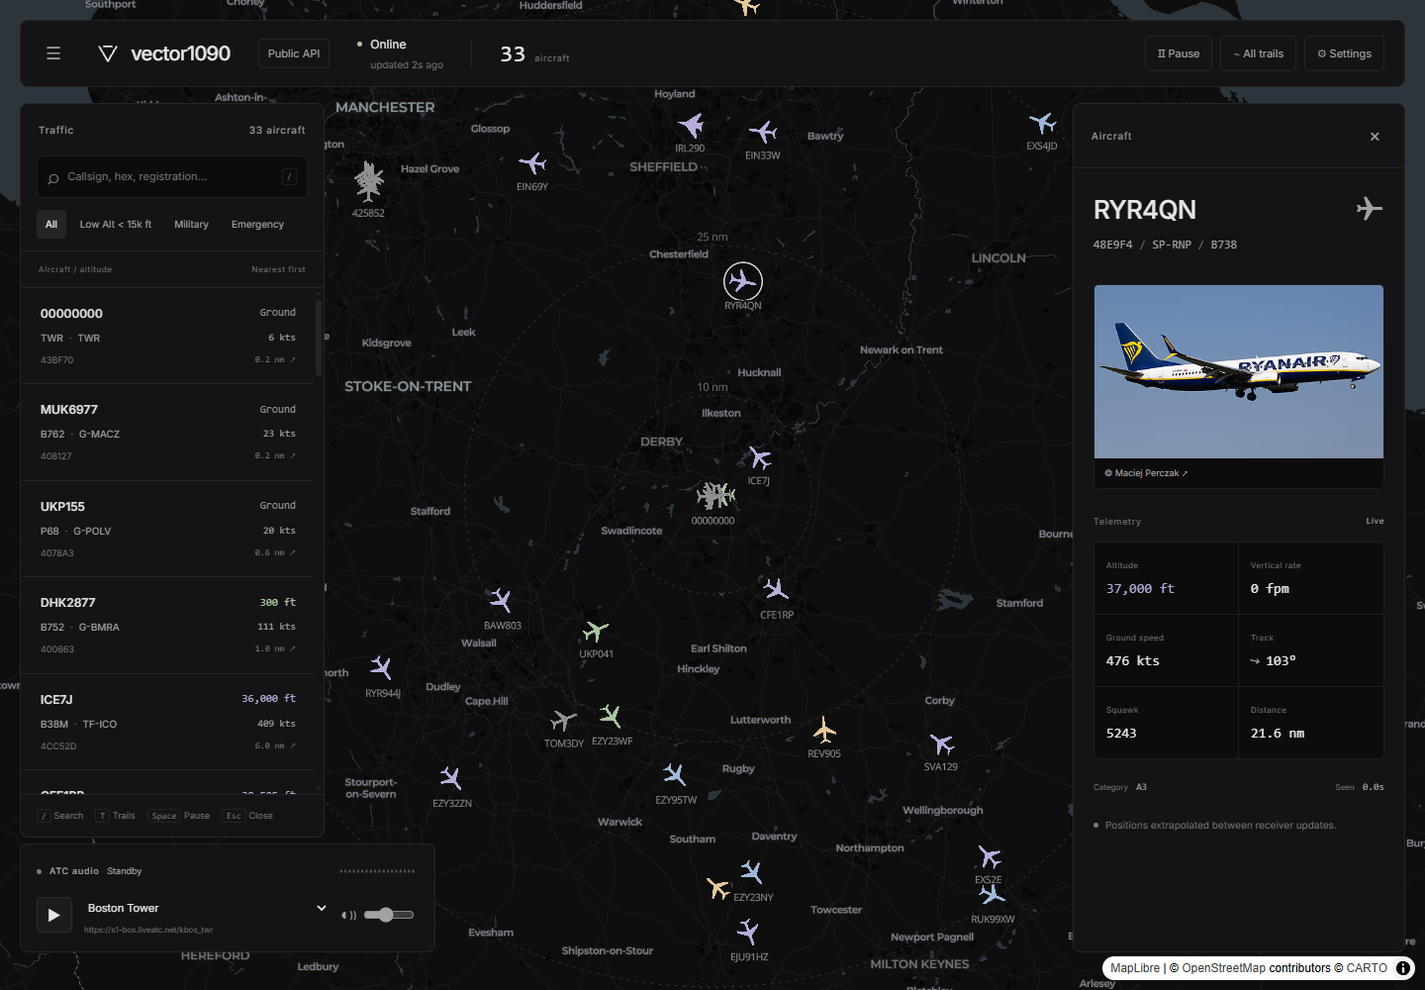
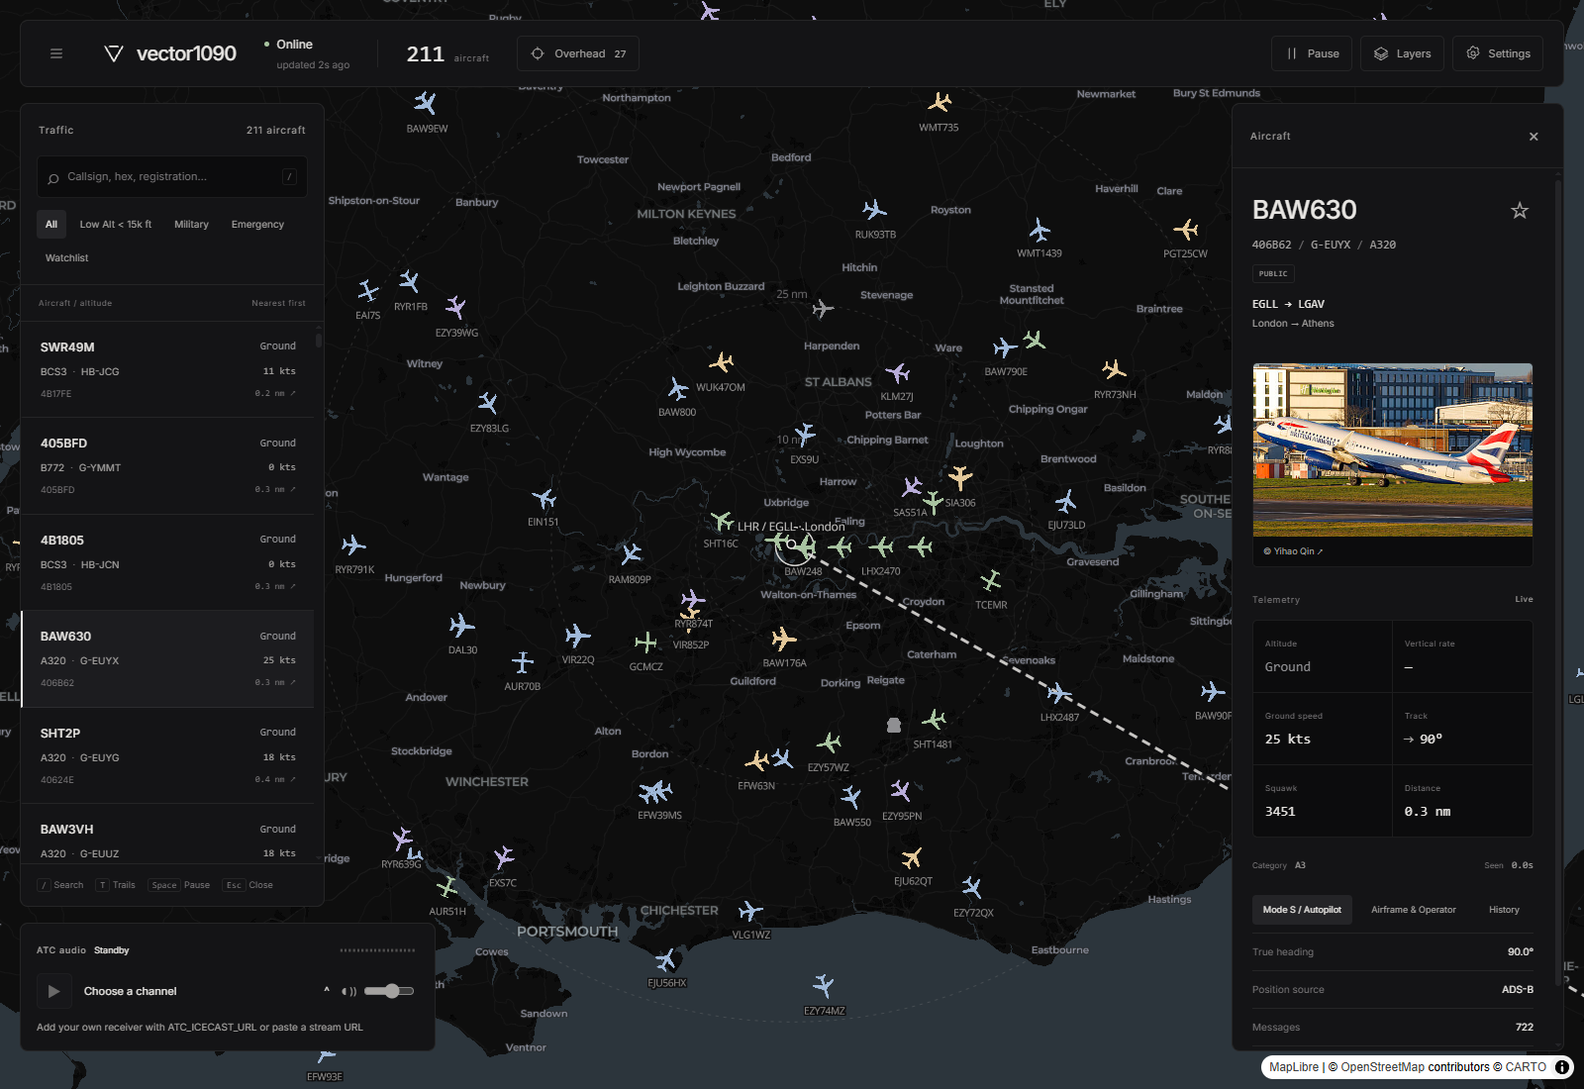
docs: self-hosting guide and v1.2.0

diff --git a/src/lib/atcServer.ts b/src/lib/atcServer.ts
@@ -22,7 +22,7 @@ const state: State = (globals[key] ??= {
 const { cache, pending } = state;
 const ibonavBase = "https://atc1.ibosoft.net.tr:2096";
 const agent = "vector1090/1.2 (+https://github.com/Reforge-OSS/vector1090)";
-export function atcRetryAfter(value: string | null): number {
+function atcRetryAfter(value: string | null): number {
   const seconds =
     value && /^\d+(\.\d+)?$/.test(value)
       ? Number(value)

diff --git a/src/lib/mapGeometry.ts b/src/lib/mapGeometry.ts
@@ -40,7 +40,7 @@ const validCoordinates = (point: Coordinates) =>
   Math.abs(point.lat) <= 90 &&
   Number.isFinite(point.lon) &&
   Math.abs(point.lon) <= 180;
-export const wrapLongitude = (lon: number) =>
+const wrapLongitude = (lon: number) =>
   ((((lon + 180) % 360) + 360) % 360) - 180;
 export function unwrapLine(points: Position[]): Position[] {
   const result: Position[] = [];

diff --git a/src/lib/atc.ts b/src/lib/atc.ts
@@ -1,5 +1,5 @@
 import { distanceNm } from "./geo";
-export type AtcProvider = "icecast" | "ibonav" | "custom";
+type AtcProvider = "icecast" | "ibonav" | "custom";
 export interface AtcChannel {
   id: string;
   provider: AtcProvider;

diff --git a/src/hooks/useAircraftFeed.ts b/src/hooks/useAircraftFeed.ts
@@ -10,7 +10,7 @@ import type {
   Settings,
 } from "@/lib/types";
 
-export interface TrailPoint {
+interface TrailPoint {
   lon: number;
   lat: number;
   alt: Aircraft["alt_baro"];

diff --git a/README.md b/README.md
@@ -1,161 +1,246 @@
 # vector1090
 
-An ADS-B aircraft map with ATC audio, for public feeds or a local receiver.
+A dark-mode ADS-B radar and ATC audio dashboard. Version 1.2 combines public
+coverage with a local receiver, without needing browser access to either upstream.
 
-![Dashboard](docs/overview.png)
+![Radar overview](docs/overview.png)
 
 ## Features
 
-- Public adsb.lol feeds or readsb/tar1090 aircraft.json, with pause, rate-limit guards and retry backoff.
-- MapLibre map with category silhouettes, altitude colors, range rings, trails and interpolated positions between updates.
-- Search and filters, distance-sorted aircraft list, telemetry and credited Planespotters photos.
-- ATC audio from a user-supplied URL, with example streams whose availability varies.
-- Monochrome panels, pastel data colors, persistent settings and inertial scrolling that respects reduced motion.
+- Public adsb.lol, local readsb/tar1090, or Hybrid feeds. Local telemetry wins
+  when both sources see an aircraft; either source can continue if the other fails.
+- Debounced viewport tracking, shared server caches, request coalescing and 429
+  cooldowns. Below zoom 5, global scope shows military and squawk 7700 traffic,
+  **not every aircraft worldwide**.
+- Search, filters, persistent watchlist and overhead aircraft picker.
+- Intelligence drawer: credited photo carousel, airframe/operator information,
+  extended telemetry and session altitude/speed history.
+- Great-circle routes, altitude-colored selected trails, category silhouettes,
+  interpolated positions and shareable camera/selection/filter URLs.
+- Persistent layers: range rings, trails, day/night shading, RainViewer radar and
+  a home-keyed receiver range plot with reset.
+- Dismissible 7500/7600/7700 alerts.
+- Icecast, authorized ibonav.aero and saved custom ATC streams, with airport-aware
+  failover, bounded retries, volume and visualizer. No autoplay.
+- Monochrome panels, pastel data colors and inertial scrolling with reduced-motion support.
 
-![Aircraft details and photo](docs/aircraft.png)
+![Aircraft drawer with route and credited photo](docs/aircraft.png)
 
 Altitude colors: ground/unknown grey; below 5,000 ft sage; 5,000–9,999 ft sand;
-10,000–24,999 ft blue; 25,000 ft and above lavender. Emergency squawks use rose.
+10,000–24,999 ft blue; 25,000 ft and above lavender. Emergency traffic uses muted rose.
 
-## Run with Docker
+## Quickstart
+
+With Docker and Compose:
 
 ```sh
-docker compose up -d
+git clone https://github.com/Reforge-OSS/vector1090.git
+cd vector1090
+cp .env.example .env
+docker compose up -d --build
 ```
 
-Open http://localhost:3000. The image uses Node 22 Alpine and runs as a non-root user.
+Open http://localhost:3000. Public mode needs no receiver or API key.
+The image uses Node 22 Alpine, standalone output and a non-root user.
+Credentials are supplied at runtime, not bundled into the image.
 
-## Development
-
-Use Node.js 22 (Node 20 or newer is required).
+For development, use Node.js 22 (minimum 20):
 
 ```sh
-npm install
+npm ci
 npm run dev
 ```
 
-| Command                | Purpose                                               |
-| ---------------------- | ----------------------------------------------------- |
-| `npm run dev`          | Development server                                    |
-| `npm run build`        | Standalone production build                           |
-| `npm run lint`         | Next.js ESLint checks                                 |
-| `npm run typecheck`    | TypeScript checks                                     |
-| `npm run format`       | Format source, config and documentation with Prettier |
-| `npm run format:check` | Check formatting without writing                      |
-| `npm test`             | Run offline Vitest tests                              |
+| Command                                   | Purpose                           |
+| ----------------------------------------- | --------------------------------- |
+| `npm run dev`                             | Development server                |
+| `npm run build`                           | Standalone production build       |
+| `npm run lint` / `npm run typecheck`      | ESLint / TypeScript               |
+| `npm run format` / `npm run format:check` | Write / check Prettier formatting |
+| `npm test`                                | Offline Vitest tests              |
 
-For a standalone build, copy `public` and `.next/static` into `.next/standalone`,
-then run `node .next/standalone/server.js`. Docker handles this automatically.
-See [CONTRIBUTING.md](CONTRIBUTING.md) for the pull-request checklist.
+For production outside Docker, build, copy `public` into
+`.next/standalone/public` and `.next/static` into
+`.next/standalone/.next/static`, then run `node .next/standalone/server.js`.
+Docker performs these copies automatically. See [CONTRIBUTING.md](CONTRIBUTING.md).
 
-## Controls
+## Self-hosting on a Raspberry Pi with readsb/tar1090
 
-| Key    | Action                            |
-| ------ | --------------------------------- |
-| `/`    | Focus search                      |
-| `T`    | Toggle all trails                 |
-| Space  | Pause or resume aircraft polling  |
-| Escape | Close settings or clear selection |
+Keep your existing readsb, tar1090 or ultrafeeder installation. Find its
+`aircraft.json` request in the receiver map's browser Network tab, or try:
 
-Shortcuts other than Escape are ignored while typing. Settings and audio preferences
-are stored in the browser. Changing feed sources clears old aircraft and trails;
-transient failures keep the last received data.
+- `http://<pi>:8080/data/aircraft.json`
+- `http://<pi>/tar1090/data/aircraft.json`
 
-## Local receivers
+Check that it returns an `aircraft` array **from the machine running vector1090**:
 
-Set the server's `LOCAL_AIRCRAFT_URL` to a reachable HTTP(S) feed, for example:
+```sh
+curl http://192.168.1.20:8080/data/aircraft.json
+```
+
+Set these in `.env`, restart Compose, then select **Hybrid** in Settings and
+set your home coordinates:
 
 ```dotenv
-LOCAL_AIRCRAFT_URL=http://192.168.1.20/tar1090/data/aircraft.json
+FEED_MODE=HYBRID
+LOCAL_RECEIVER_URL=http://192.168.1.20:8080/data/aircraft.json
 ALLOW_CLIENT_LOCAL_URL=false
 ```
 
-Common receiver paths are `http://<pi>/tar1090/data/aircraft.json` and
-`http://<pi>:8080/data/aircraft.json`. Select **Local receiver** in Settings and set
-your home location. The server fetches the receiver; browser CORS setup is not needed.
+Hybrid is recommended: your receiver supplies local telemetry while public queries
+fill the rest of the map. Local mode avoids public requests entirely.
+The server fetches the receiver; browser CORS setup is not needed.
 
-Receiver URLs are **server-managed by default**. The URL field is read-only and the
-browser does not send an override. Set `ALLOW_CLIENT_LOCAL_URL=true` only if you need
-browser-editable URLs on a trusted deployment. This permits arbitrary HTTP(S)
-destinations reachable by the server, including private addresses. There is no built-in
-authentication: do not enable this on an untrusted public deployment.
+Alternatively, add vector1090 alongside your existing readsb/ultrafeeder Compose
+service on the same network. For an existing service named `ultrafeeder`:
 
-Inside Docker, `localhost` means the container. For a receiver on the host, use
-`http://host.docker.internal:8080/data/aircraft.json` or a LAN address.
-On Linux, enable the `extra_hosts` hint in Compose. The receiver must listen on an
-interface reachable from the container.
+```yaml
+services:
+  # Keep your existing ultrafeeder service and receiver configuration.
+  vector1090:
+    build: ./vector1090
+    ports:
+      - "3000:3000"
+    restart: unless-stopped
+    environment:
+      FEED_MODE: HYBRID
+      LOCAL_RECEIVER_URL: http://ultrafeeder:80/data/aircraft.json
+      ALLOW_CLIENT_LOCAL_URL: "false"
+```
+
+Clone this repository into `./vector1090` beside that Compose file. Adjust the
+service name, **internal** web port and path for your receiver.
+For a receiver on the Docker host, use
+`http://host.docker.internal:8080/data/aircraft.json`, not `localhost`.
+Docker Desktop provides that name; on Linux enable the `extra_hosts` entry in
+this repository's Compose file. The receiver must listen on a reachable interface.
+The Node base image supports 64-bit ARM Pis; a 32-bit Pi build is not verified.
+
+Receiver URLs are server-managed by default. `ALLOW_CLIENT_LOCAL_URL=true` allows
+browser clients to request arbitrary HTTP(S) destinations reachable by the server,
+including private addresses. Enable that only on trusted deployments.
+There is no built-in authentication: protect private receivers and licensed streams
+with your own access controls.
+
+## ATC audio with RTLSDR-Airband + Icecast
+
+Run RTLSDR-Airband and Icecast separately. Configure RTLSDR-Airband's Icecast output
+with your host, source credentials and mount (for example, `/tower.mp3`), following
+their documentation. Confirm that Icecast's `/status-json.xsl` lists the mount and
+its audio plays in a browser. vector1090 is a listener, not an SDR decoder or source.
+
+Uncomment and configure these in `.env`, then restart Compose:
+
+```dotenv
+ATC_ICECAST_URL=http://192.168.1.20:8000
+ATC_ICECAST_AIRPORT=EGLL
+ATC_ICECAST_LABELS={"/tower.mp3":{"name":"Tower","icao":"EGLL","iata":"LHR","city":"London","country":"United Kingdom","frequency":"118.500 MHz","type":"tower","lat":51.4706,"lon":-0.4619}}
+```
+
+Mount discovery supports Icecast's object and array source formats and caches for
+60 seconds. Configured streams use a server-side streaming proxy. Labels are
+optional; Icecast names/descriptions are used otherwise. Simple mappings such as
+`{"/tower.mp3":"Tower"}` also work. `ATC_ICECAST_AIRPORT` accepts a default
+ICAO or a JSON mount-to-ICAO mapping.
+
+Airport codes group backup channels. Errors, stalls or about eight seconds without
+playback progress trigger another online channel at that airport, preferring the
+same service type. There are at most four total attempts with increasing delays.
+Unknown-airport channels are not assumed to belong together.
+
+Authorized ibonav.aero users can set `IBONAV_ATC_TOKEN` with the required
+**ATC Broadcasts Access** role. Documented `access_token` authentication remains
+server-side; credentials never reach the browser. Discovery caches for at least a
+minute and respects Retry-After. Its channels include ibonav.aero attribution.
+
+You can also save HTTP(S) URLs in the picker. These remain in that browser and are
+checked on play. Custom streams need a browser-supported codec and HTTPS on HTTPS
+deployments. Proxied streams have a measured visualizer; direct custom URLs may
+show “meter unavailable.” Nothing preloads or plays until you press Play.
+
+**LiveATC prohibits third-party use of its live streams.** They are not embedded
+and their stream URLs are rejected. The fallback is an external search link only.
+Check provider terms and local laws before receiving, recording, rebroadcasting or
+sharing airband audio. Permission to listen is not necessarily permission to redistribute.
 
 ## Configuration
 
-Copy `.env.example` to `.env` for server configuration. Browser settings explicitly
-send mode, coordinates and radius, taking precedence over these API defaults.
+Compose reads `.env`; other deployments use environment variables or Next.js
+environment files. These are **API defaults**, not remote browser preferences.
+The browser initially uses Public mode and stores its own Settings; its explicit
+mode, coordinates and radius override server defaults. Select Hybrid in Settings
+even if `FEED_MODE=HYBRID` is set.
 
-| Variable                 | Default                                                       | Purpose                                          |
-| ------------------------ | ------------------------------------------------------------- | ------------------------------------------------ |
-| `FEED_MODE`              | `public`                                                      | API's default feed mode                          |
-| `ADSB_API_BASE`          | `https://api.adsb.lol`                                        | Public feed base URL                             |
-| `ADSB_API_KEY`           | Unset                                                         | Optional public feed API key                     |
-| `LOCAL_AIRCRAFT_URL`     | `http://localhost:8080/data/aircraft.json`                    | Server's receiver URL                            |
-| `ALLOW_CLIENT_LOCAL_URL` | Disabled; Compose: `false`                                    | Only literal `true` permits client URL overrides |
-| `HOME_LAT`               | `52.8311`                                                     | Default latitude                                 |
-| `HOME_LON`               | `-1.3281`                                                     | Default longitude                                |
-| `HOME_RADIUS_NM`         | `50`                                                          | Default radius; clamped to 1–250 nm              |
-| `PHOTO_USER_AGENT`       | `vector1090/1.0 (+https://github.com/Reforge-OSS/vector1090)` | Photo request identification                     |
+| Variable                  | Default                                                       | Purpose                                                                            |
+| ------------------------- | ------------------------------------------------------------- | ---------------------------------------------------------------------------------- |
+| `FEED_MODE`               | `public`                                                      | API default: `public`, `local`, `hybrid`; case-insensitive                         |
+| `LOCAL_RECEIVER_URL`      | Unset                                                         | Primary server-managed aircraft.json URL; required for Hybrid's local source       |
+| `LOCAL_AIRCRAFT_URL`      | Unset                                                         | Legacy alias if the primary name is empty                                          |
+| `ALLOW_CLIENT_LOCAL_URL`  | `false`                                                       | Literal `true` enables URL overrides in Local mode; Hybrid uses the configured URL |
+| `ADSB_API_BASE`           | `https://api.adsb.lol`                                        | Public API base                                                                    |
+| `ADSB_API_KEY`            | Unset                                                         | Optional public API key                                                            |
+| `HOME_LAT`                | `52.8311`                                                     | API default latitude                                                               |
+| `HOME_LON`                | `-1.3281`                                                     | API default longitude                                                              |
+| `HOME_RADIUS_NM`          | `50`                                                          | API default radius, clamped to 1–250 nm                                            |
+| `PHOTO_USER_AGENT`        | `vector1090/1.0 (+https://github.com/Reforge-OSS/vector1090)` | Photo request identification override                                              |
+| `ATC_ICECAST_URL`         | Unset                                                         | Icecast base; optional URL user/password become server-side Basic authentication   |
+| `ATC_ICECAST_LABELS`      | Unset                                                         | JSON mount-to-name/metadata map                                                    |
+| `ATC_ICECAST_AIRPORT`     | Unset                                                         | Default ICAO or JSON mount-to-ICAO map                                             |
+| `IBONAV_ATC_TOKEN`        | Unset                                                         | Authorized ibonav credential; enables the provider                                 |
+| `NODE_ENV`                | Docker: `production`                                          | Runtime mode                                                                       |
+| `PORT`                    | `3000`                                                        | HTTP listener; Compose publishes 3000                                              |
+| `HOSTNAME`                | Docker: `0.0.0.0`                                             | Standalone listener interface                                                      |
+| `NEXT_TELEMETRY_DISABLED` | Docker: `1`                                                   | Disable Next.js telemetry                                                          |
 
-The aircraft proxy uses the same identifying User-Agent, without a per-request override.
-Docker sets `NODE_ENV=production`, `PORT=3000`, `HOSTNAME=0.0.0.0` and
-`NEXT_TELEMETRY_DISABLED=1`.
+Without receiver variables, the Local API falls back to
+`http://localhost:8080/data/aircraft.json` inside the server/container;
+Hybrid does not. Public/Hybrid polling defaults to 10 seconds (minimum 5);
+Local defaults to 2 seconds (minimum 1). Viewport tracking defaults on and does
+not apply in Local mode. Settings, watchlists, layers, custom channels and receiver
+range history use localStorage.
 
-## API
+## Controls, API and customization
 
-- **`GET /api/aircraft`** accepts `mode`, `lat`, `lon`, `radius` and an opt-in
-  local `url`. Returns `{ aircraft: Aircraft[], now, mode, total }` with no caching.
-  Coordinates outside valid ranges return 400; upstream rate limits return 429 with
-  `{ error: "rate_limited", retryAfter }`; other upstream failures return 502.
-  See [the shared types](src/lib/types.ts) for the normalized aircraft fields and
-  [normalization](src/lib/normalize.ts) for receiver mappings.
-- **`GET /api/photo/[hex]`** accepts six hexadecimal characters and returns
-  `{ photo: { thumbnail, large, link, photographer } | null }`. Successful and
-  genuine-empty lookups cache for one hour; upstream failures return 502 with
-  `Cache-Control: no-store` and can be retried.
-- **`GET /api/config`** returns `{ allowClientLocalUrl, localUrlConfigured }` with
-  no caching. It never returns the configured receiver URL. The UI stays locked
-  if this request fails.
+Press `/` for search, `T` for trails, Space to pause/resume aircraft polling
+(not audio), and Escape to close popovers/settings or clear selection.
+Shortcuts do not interfere with typing. Shared selections appear once that
+aircraft is in the configured feed; links do not query individual aircraft worldwide.
+Mode/receiver changes clear old trails; pans preserve them until the next response.
 
-## Customization and layout
+- `GET /api/aircraft`: `mode`, `scope=area|global`, `lat`, `lon`, `radius`.
+  Returns normalized aircraft, source statuses and timestamps. Public queries are
+  rounded/bucketed and cached for 8 seconds; local queries for 1 second.
+  `X-Cache` reports hits/coalescing/cooldowns. Rate limits may return stale data;
+  Hybrid stays HTTP 200 when local data is available.
+- `GET /api/config`: URL-policy/receiver-configured booleans, never URLs or secrets.
+- `GET /api/photo/{hex}`: `photos` array and first-photo `photo` alias;
+  successful/empty lookups cache one hour, failures are no-store.
+- `GET /api/airframe/{hex}`, `GET /api/callsign/{callsign}`: adsbdb metadata;
+  successful metadata caches 24 hours, upstream failures are no-store.
+- `GET /api/atc/channels`: normalized channels, provider status and retry delay.
+- `GET /api/atc/stream?id=…`: known configured mount, streamed without whole-body
+  buffering. It is not an arbitrary-URL proxy.
 
-Replace `public/logo.svg` to change the mark and favicon; the adjacent wordmark is
-plain text in `Logo.tsx`. Colors live in `src/lib/palette.json` and are shared by CSS,
-Tailwind and map layers.
+Caches are in-memory per server process, not distributed. Coverage, routes,
+status and imagery may be incomplete. **Not for navigation or operational use.**
 
-- `src/app`: dashboard, global styles and server API routes
-- `src/components`: map, aircraft panels, audio and settings
-- `src/hooks`: polling, persistence, receiver policy and panel scrolling
-- `src/lib`: normalization, geometry, units, filters and photo caching
-- `tests`: Vitest library, route and hook tests
-- `scripts/prepare-maplibre.mjs`: copies the worker before dev/build; its output is ignored
+Replace `public/logo.svg` for the mark/favicon; the adjacent wordmark is plain text
+in `Logo.tsx`. The central palette is `src/lib/palette.json`. Source is in
+`src/app`, `src/components`, `src/hooks`, `src/lib`; offline tests in `tests`.
+The MapLibre worker is copied before dev/build and is not tracked.
+Known dependency advisories remain; review them before public deployment.
 
-Built with Next.js 14.2.35, React 18, TypeScript, Tailwind 3, MapLibre 6, Inter and Lenis.
-Next.js is pinned; known dependency advisories remain. Review them before public deployment.
-ATC playback depends on browser policies, codecs and stream availability. The fallback
-visualizer is simulated, not a measurement of audio levels.
+## Data credits and license
 
-## Credits and license
+- Aircraft: [adsb.lol](https://adsb.lol/), its feeders and your local receiver.
+- Airframe/operator/routes: [adsbdb](https://www.adsbdb.com/).
+- Photos: [Planespotters.net](https://www.planespotters.net/) and each credited
+  photographer; image rights remain with their owners.
+- Weather: [RainViewer](https://www.rainviewer.com/).
+- Basemap: [CARTO](https://carto.com/attributions) and
+  [OpenStreetMap contributors](https://www.openstreetmap.org/copyright).
+- Optional ATC data/audio: [ibonav.aero](https://ibonav.aero/), subject to access
+  permissions and attribution.
+- Map rendering: [MapLibre](https://maplibre.org/).
 
-Aircraft data: [adsb.lol](https://adsb.lol/) and its feeders.
-Photos: [Planespotters.net](https://www.planespotters.net/) and the credited photographers;
-image rights remain with their owners.
-Basemap: [CARTO](https://carto.com/attributions) and
-[OpenStreetMap contributors](https://www.openstreetmap.org/copyright).
-Map rendering: [MapLibre](https://maplibre.org/).
-ATC audio uses your own Icecast receiver or saved stream URLs. Configure
-`ATC_ICECAST_URL` for mount discovery; optional `ATC_ICECAST_LABELS` maps mount
-paths to names or metadata (ICAO, IATA, city, country, frequency, type, lat/lon).
-`ATC_ICECAST_AIRPORT` accepts a default ICAO or a JSON mount-to-ICAO mapping.
-Airport codes group channels for automatic backup selection.
-Set `IBONAV_ATC_TOKEN` only with an authorized ATC Broadcasts Access role;
-[ibonav.aero](https://ibonav.aero) streams use a server-side proxy and require
-attribution. Discovery is cached for at least 60 seconds. No audio autoplays.
-LiveATC is a link-out only; its live streams are not embedded.
-
-MIT. See [LICENSE](LICENSE); third-party content retains its own terms.
+MIT. See [LICENSE](LICENSE). Third-party data and media retain their own terms.
